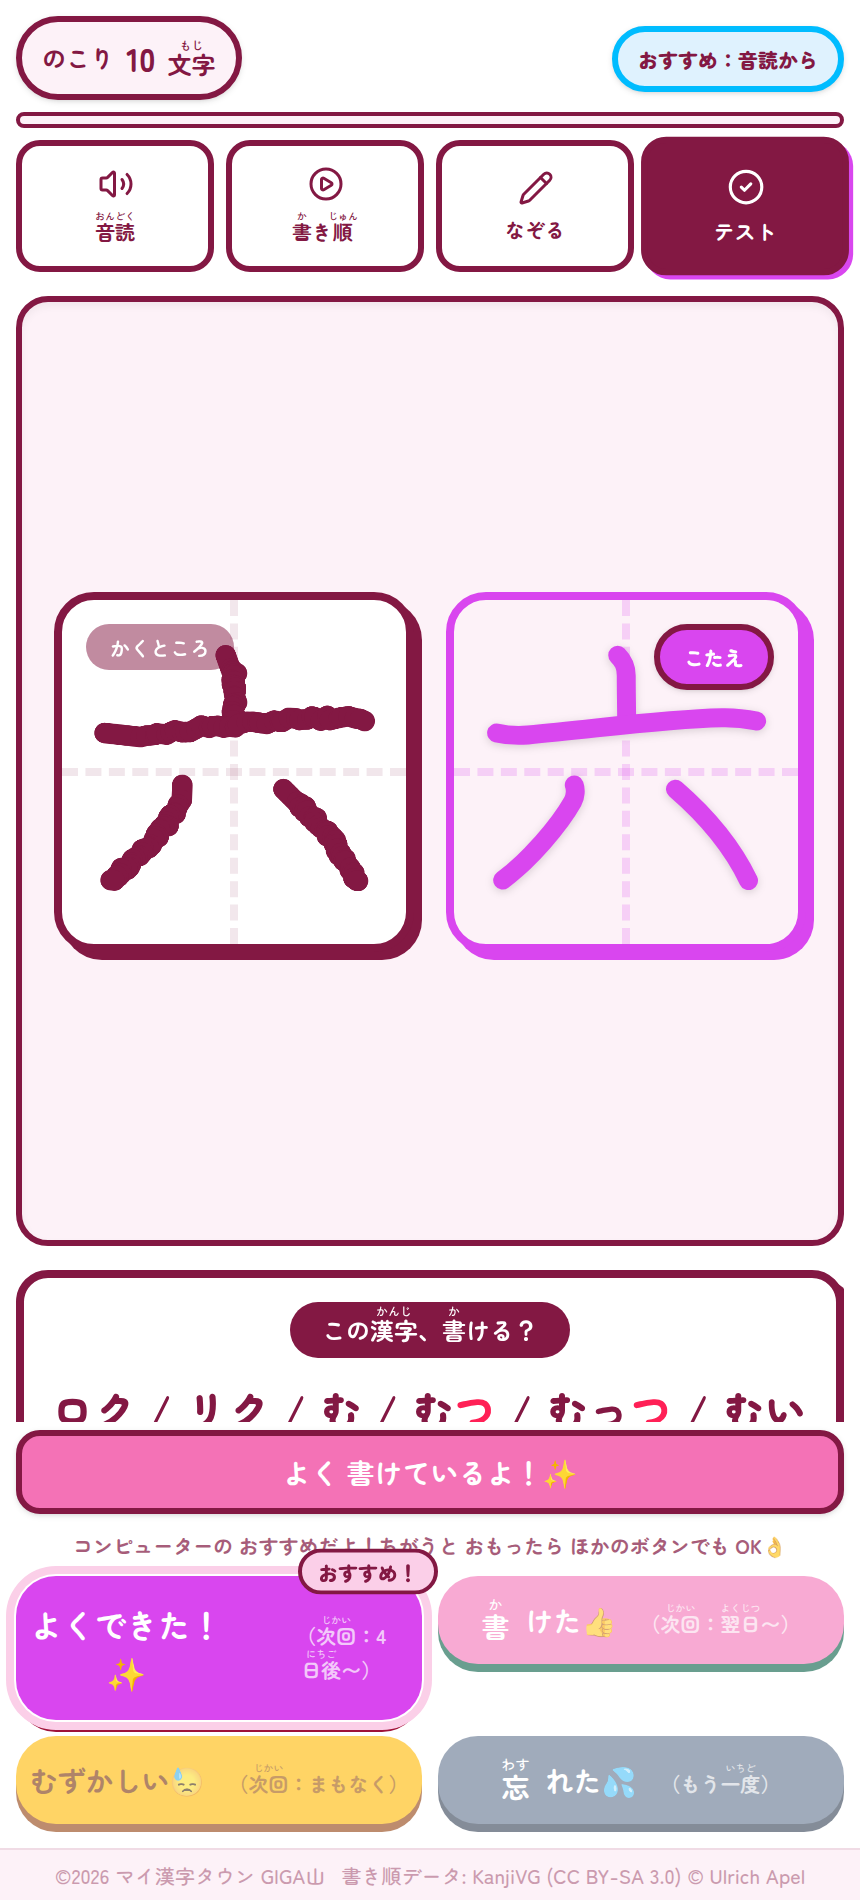
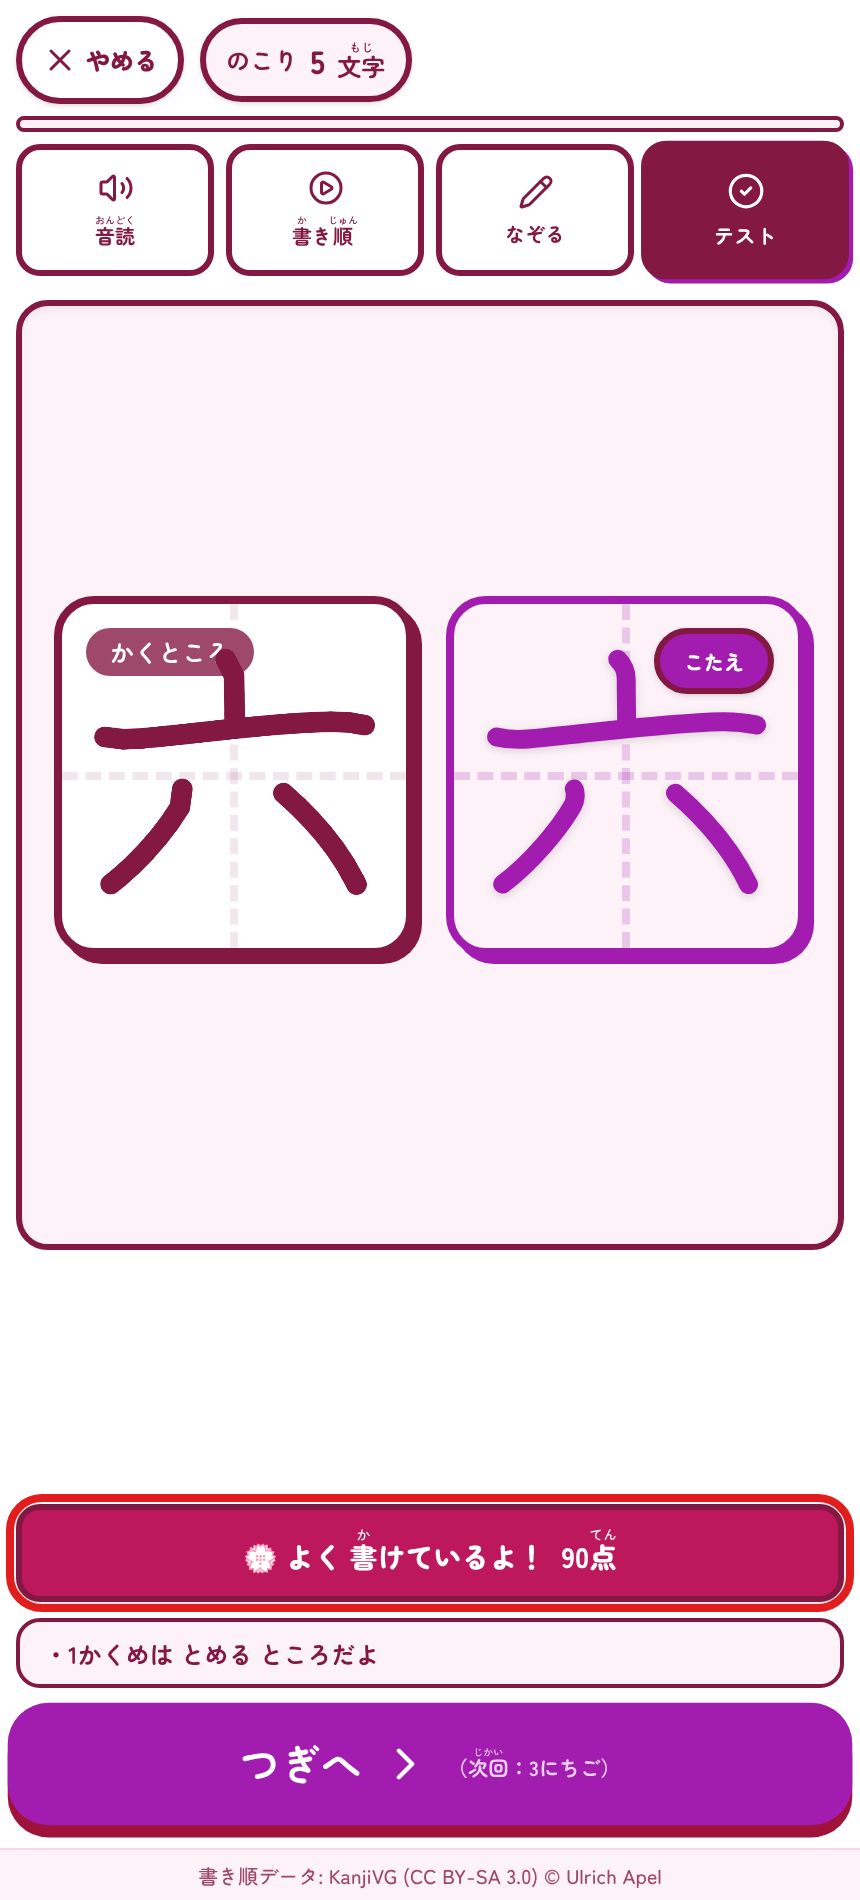
docs(manual): テストの採点・てきとう書き・レベル100の先を、マニュアルと画面写真に入れる
- テストの節を、いまの流れ（こたえあわせ → つぎへ／もう1回）に書きなおした。
  自己採点の4つのボタンの説明と写真（14-self-eval.png）は無くした
- 「わからない」のボタン、3回やり直してもできない字が次の学習へ回ること、
  てきとうに書くと EXP が減ること、先生が学習きろくで回数を見られることを足した
- レベル100から先（Lv999 まで・ごほうび・はじめて開いたときのお祝い）を足した
- 写真は、いまの画面を 430x950・2倍で撮りなおした（11〜14・jd-01〜04・lv-01〜02）

Claude-Session: https://claude.ai/code/session_01UfLrwEfi6QHW289yy7Zdrp

diff --git a/docs/manual/manual.md b/docs/manual/manual.md
@@ -101,6 +101,7 @@
 上のほうには、じぶんの レベル（Lv.）、まちの 人の数、まちの きぶん、
 もっている コインの数が 出ています。その下の <ruby>細<rt>ほそ</rt></ruby>いバーは、
 つぎの レベルまで あと どれくらいかを あらわします。
+バーの 下には、つぎの レベルで もらえる ごほうびも 出ます。
 
 つぎの 白いカードが「きょうの<ruby>学習目標<rt>がくしゅうもくひょう</rt></ruby>」です。
 きょう なん字 やったか、なん日 つづいているか、つぎの <ruby>復習<rt>ふくしゅう</rt></ruby>が
@@ -140,7 +141,8 @@
 3. <ruby>書<rt>か</rt></ruby>き<ruby>順<rt>じゅん</rt></ruby> ― 書く じゅんばんを 見る。
 4. なぞる ― うすい お手本を なぞる。
 5. テスト ― なにも 見ないで 書く。
-6. じぶんの できを 4つの ボタンから えらぶ。つぎの字へ すすむ。
+6. 「こたえあわせ」を おす。コンピューターが <ruby>点数<rt>てんすう</rt></ruby>を つける。
+7. 書けていたら「つぎへ」で つぎの字へ。ちがっていたら もう1回 書く。
 
 ### 大きな赤いボタンから はじめる
 
@@ -225,42 +227,59 @@
 ### テスト ― なにも 見ないで <ruby>書<rt>か</rt></ruby>く
 
 さいごは、お手本を 見ないで 書きます。
-上に 読みかたが 出るので、その字を まっ白な ますに 書いてください。
+「◯」の 入った 文が 出るので、◯に 入る字を まっ白な ますに 書いてください。
+◯の 上の 小さな 字が、その字の 読みかたです。
 
 かきかた:
 
-1. ますの 中に、ゆびか ペンで 書きます。
-2. 1<ruby>画<rt>かく</rt></ruby> まちがえたときは「1<ruby>画<rt>かく</rt></ruby>もどす」を おします。
-3. ぜんぶ 書きなおすときは「書きなおす」を おします。
-4. 書けたら「こたえあわせ」を おします。
+1. 文を 読んで、◯に 入る字を かんがえます。
+2. ますの 中に、ゆびか ペンで 書きます。
+3. 1<ruby>画<rt>かく</rt></ruby> まちがえたときは「1<ruby>画<rt>かく</rt></ruby>もどす」を おします。
+4. ぜんぶ 書きなおすときは「書きなおす」を おします。
+5. 書けたら「こたえあわせ」を おします。
 
 ![テストの画面](images/11-test-blank.png)
 
-なにも 見ないで、ここに 書きます。
+赤いわくの 文の ◯に 入る字を 書きます。
 
 ![字を 書いた ところ](images/12-test-written.png)
 
 書きおわると「こたえあわせ」が おせます。
 
+どうしても 思い出せないときは、「わからない」を おします。
+こたえが 出るので、よく 見てから もう1回 書きます。
+「わからない」を おしても、もらえる EXP は へりません。
+
+![「わからない」の ボタン](images/jd-03-giveup.png)
+
+赤いわくが「わからない」の ボタンです。
+
 【！】おぼえておいて ほしいこと:
 
 - とちゅうで タブが とじても、つぎに ひらいたとき つづきから はじまります
-- 上の 4つの タブ（<ruby>音読<rt>おんどく</rt></ruby>・<ruby>書<rt>か</rt></ruby>き<ruby>順<rt>じゅん</rt></ruby>・なぞる・テスト）は、いつでも 行き来できます
+- 上の 4つの タブ（<ruby>音読<rt>おんどく</rt></ruby>・<ruby>書<rt>か</rt></ruby>き<ruby>順<rt>じゅん</rt></ruby>・なぞる・テスト）は、「こたえあわせ」を おす前なら 行き来できます
 - すでに <ruby>練習<rt>れんしゅう</rt></ruby>した字は、4つ ぜんぶを 通らずに、にがてな ところから はじまります
+- 文の 右の 電球の ボタンを おすと、読みかたの ヒントが 出ます
 
 ## <ruby>書<rt>か</rt></ruby>いた字の <ruby>点数<rt>てんすう</rt></ruby>の 見かた
 
-書いた字は、100<ruby>点<rt>てん</rt></ruby>まんてんで <ruby>点数<rt>てんすう</rt></ruby>が つきます。
-どこが ちがったのかも 出るので、つぎに 気をつける ところが わかります。
+書いた字は、コンピューターが 100<ruby>点<rt>てん</rt></ruby>まんてんで <ruby>点数<rt>てんすう</rt></ruby>を つけます。
+じぶんで できを えらぶ ボタンは ありません。書いた字で きまります。
 
-### こたえあわせで どこが ちがったかを 見る
+### こたえあわせの けっかを 見て、つぎへ すすむ
 
 <ruby>画面<rt>がめん</rt></ruby>には 2つの ますが ならびます。
 左の「かくところ」が じぶんの 書いた字、右の「こたえ」が お手本です。
 
-その下の <ruby>帯<rt>おび</rt></ruby>に、ひとことで けっかが 出ます。
-「よく書けているよ！」なら <ruby>合格<rt>ごうかく</rt></ruby>です。
-「かくすうが ちがうよ」のように 出たときは、どこが ちがったかを おしえています。
+その下の <ruby>帯<rt>おび</rt></ruby>に、ひとことで けっかと <ruby>点数<rt>てんすう</rt></ruby>が 出ます。
+<ruby>帯<rt>おび</rt></ruby>の 下には、どの<ruby>画<rt>かく</rt></ruby>に 気をつけるかも 出ます。
+
+- 「よく書けているよ！」80<ruby>点<rt>てん</rt></ruby>より 上です
+- 「書けたね！」55<ruby>点<rt>てん</rt></ruby>より 上です
+- 「もうすこし ていねいに 書こう」40<ruby>点<rt>てん</rt></ruby>より 上です。ほかの字より 早く また 出ます
+- 「せんの まじわりが ちがうよ」「かきじゅんを たしかめよう」つぎへ すすめますが、ほかの字より 早く また 出ます
+
+つぎに いつ 出るかは、「つぎへ」の ボタンに 出ます。よく 書けているほど、あとに なります。
 
 <ruby>点数<rt>てんすう</rt></ruby>は、字の かたち・<ruby>書<rt>か</rt></ruby>き<ruby>順<rt>じゅん</rt></ruby>・
 とめはね・<ruby>線<rt>せん</rt></ruby>の まじわり・書きはじめ・書きおわりの
@@ -269,25 +288,58 @@
 
 ![こたえあわせの 画面](images/13-graded.png)
 
-左が じぶんの字、右が お手本です。
+赤いわくに、けっかと 点数が 出ます。
 
-### 4つの ボタンで じぶんの できを つたえる
+書けていたら、下に「つぎへ」の ボタンが 出ます。おすと つぎの字へ すすみます。
 
-下に 4つの ボタンが あります。じぶんの かんじかたに 近いものを おします。
+![「つぎへ」の ボタン](images/14-next.png)
 
-- 「よくできた！」つぎに 出るのは 4日<ruby>後<rt>ご</rt></ruby>くらいです
-- 「書けた」つぎに 出るのは あしたです
-- 「むずかしい」まもなく また 出ます
-- 「忘れた」もう一度、さいしょから 出ます
+赤いわくの「つぎへ」を おします。
 
-「おすすめ！」の しるしが ついた ボタンは、アプリが すすめている ものです。
-ちがうと おもったら、ほかの ボタンを おしても かまいません。
+<ruby>画<rt>かく</rt></ruby>の 数が ちがうときや、かたちが ちがうときは、「つぎへ」は 出ません。
+かわりに「お手本を 見て もう1回」が 出ます。
+おすと、その字が あとで もう一度 出ます。お手本を なぞってから、もう1回 テストを します。
 
-![4つの ボタン](images/14-self-eval.png)
+![もう1回の 画面](images/jd-01-retry.png)
 
-赤いわくが おすすめの ボタンです。
+何が ちがったかが 出ます。赤いわくで やりなおします。
 
-### さいごに もらえる ごほうびを たしかめる
+【！】おぼえておいて ほしいこと:
+
+- 字が 小さすぎるときも「もう1回」に なります。ますいっぱいに 大きく 書いてください
+- 1つの<ruby>画<rt>かく</rt></ruby>は、ゆびを はなさずに さいごまで 書きます。とちゅうで はなすと <ruby>画<rt>かく</rt></ruby>の 数が ふえて、「かくすうが ちがうよ」と 出ます
+- ちゃんと 書いたのに「もう1回」に なったときは、もう一度 書いてください。同じ字の 2回目からは、<ruby>画<rt>かく</rt></ruby>が 1つ 多いくらいの ちがいなら つぎへ すすめます
+- 同じ字を 3回 やりなおしても できないときは、その字は つぎの <ruby>学習<rt>がくしゅう</rt></ruby>に まわります。また 出てくるので、しんぱい いりません
+- 「こたえあわせ」を おしたあとは、ボタンを おすまで ほかの タブへ 行けません
+
+### てきとうに <ruby>書<rt>か</rt></ruby>くと EXP が へる
+
+<ruby>線<rt>せん</rt></ruby>を 1本 ひくだけ、<ruby>点<rt>てん</rt></ruby>を うつだけで「こたえあわせ」を おすと、
+「ていねいに 書こう！」と 出ます。その字は もう1回に なります。
+
+- 1回目は ちゅういだけです
+- 2回目からは、その回に もらえる EXP が 1回ごとに 10% へります（いちばん 多くて 半分）
+- まちがえた字は もう1回 書けば だいじょうぶです。へるのは、書こうと していないときだけです
+
+わからないときは、てきとうに 書かずに「わからない」を おしてください。
+
+![てきとうに 書いたときの 画面](images/jd-02-careless.png)
+
+赤いわくに、ちゅういが 出ます。
+
+<ruby>先生<rt>せんせい</rt></ruby>・おうちの<ruby>方<rt>かた</rt></ruby>へ（ここから この節の おわりまでは 大人向けです）:
+
+- 「てきとうに書いた」と数えるのは、書こうとしていない答えだけです。お手本の画数の3分の1以下しか書いていない（3画以上の字）、お手本の2倍より5画以上多く書いた、書いた線の長さがお手本の1割に満たない（点を打っただけ）、のどれかです
+- 画数が1つ多い・書き順がちがう・ほかの字とまちがえた、のような「書こうとした」答えは数えません。やり直しになるだけで、EXPは減りません
+- 回数は「学習きろく」に、きょうの分と7日間の分が出ます。0回のあいだは何も出ません
+- 1字も書けなかった学習は、学習の回数・連続日数・「セッション」のミッションに数えません。レアアイテムも出ません
+- 宿題の練習は、3回やり直してもできずに次へ回った字があるあいだは「できた」になりません
+
+![学習きろくの「てきとうに書いた回数」](images/jd-04-stats-careless.png)
+
+赤いわくに、きょうと7日間の回数が出ます。
+
+### さいごに もらえる ごほうびと レベルを たしかめる
 
 その日の 字を ぜんぶ おえると、まとめの<ruby>画面<rt>がめん</rt></ruby>に なります。
 もらった EXP と、まちで つかえる ざいりょうが 出ます。
@@ -298,6 +350,27 @@
 ![学習が おわった ところ](images/15-session-result.png)
 
 もらった EXP が 上に 出ます。
+
+1字も 書けなかった回は、<ruby>学習<rt>がくしゅう</rt></ruby>の 回数や、つづけた 日数に 入りません。
+てきとうに 書いた 回数が あるときは、へった EXP も ここに 出ます。
+
+EXP が たまると レベルが 上がります。レベルは 100 で 止まらず、999 まで あります。
+レベルが 上がるたびに、コインや まちの たてものが もらえます。
+
+- レベル100 までは、まちが 広がったり、<ruby>画面<rt>がめん</rt></ruby>の 色が かわったり します
+- レベル100 から 先は、5レベルごとに めずらしい たてもの、10レベルごとに たくさんの コインが もらえます
+- レベル150・200・300・500・999 で、あたらしい よび名（<ruby>名君<rt>めいくん</rt></ruby>・<ruby>大王<rt>だいおう</rt></ruby> など）に なります
+
+![ホームの レベルの ところ](images/lv-02-home.png)
+
+赤いわくに、つぎの レベルまでの EXP と ごほうびが 出ます。
+
+前から つかっていて レベル100 で 止まっていた人は、ひらいたときに
+ためていた EXP の 分だけ いっきに レベルが 上がります。ごほうびも まとめて もらえます。
+
+![いっきに レベルが 上がった ところ](images/lv-01-cap-lifted.png)
+
+「やったー！」を おすと とじます。
 
 ## とくべつトレーニングで まとめて <ruby>復習<rt>ふくしゅう</rt></ruby>する
 
@@ -453,6 +526,7 @@
 
 さらに 下には、つづけた 日数、これまでの EXP、<ruby>今週<rt>こんしゅう</rt></ruby>の もくひょう、
 7日間の <ruby>正解率<rt>せいかいりつ</rt></ruby>が ならびます。
+てきとうに 書いた 回数が あるときは、その下に 回数が 出ます。
 
 ![学習きろくの 上のほう](images/19-stats.png)
 
